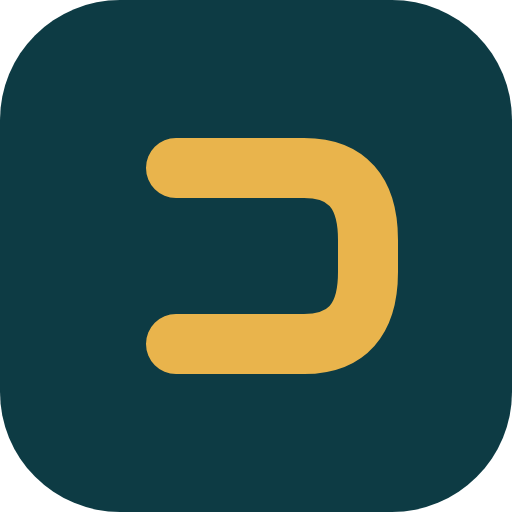
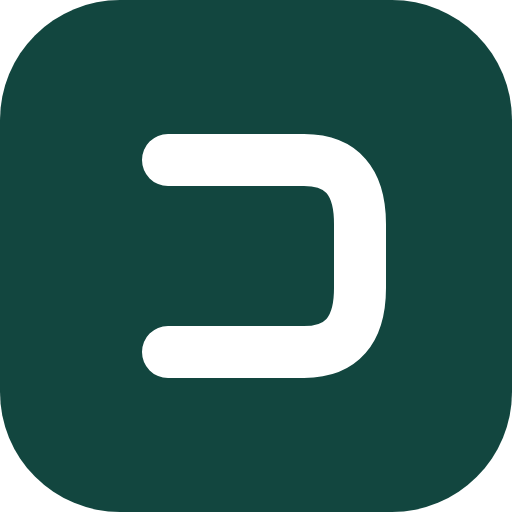
Lighten the whole look and give the mark a softer container
The light theme was cream-on-deep-teal with a dark hero slab that
dominated the page even in light mode, so the product read heavy and
dated rather than current.

Palette: near-white with a faint cool cast instead of cream, lighter
cooler rules, a brighter teal, and gold pushed down to an accent — it was
carrying headline text, which is what made everything feel weighty. The
hero is now the same near-white ground with a soft wash rather than a
dark band.

Light is now the default rather than following the OS. That needed fixing
in two places: the pre-paint script AND useTheme, which independently fell
back to prefers-color-scheme. With only one changed, the script set light
and the hook put dark straight back after mount, so the default never
actually applied.

The mark keeps the kaf — it is the distinctive part — in a soft tile,
which reads as a product mark rather than a glyph without planting a
heavy dark square in a light header. Icons regenerated from it.

Directory rails with no items no longer render their heading; nothing is
flagged featured yet, and an empty titled section looks unfinished.

Changed region(s): [[0.2812, 0.25, 0.7812, 0.75]]

diff --git a/src/index.css b/src/index.css
@@ -55,19 +55,23 @@
     --sidebar-border: 220 13% 91%;
     --sidebar-ring: 217.2 91.2% 59.8%;
 
-    --brand-canvas: 45 38% 96%;
+    /* Near-white with a faint cool cast rather than cream: the warm ground was
+       what made the light theme read heavy and dated. */
+    --brand-canvas: 190 24% 99%;
     --brand-surface: 0 0% 100%;
-    --brand-navy: 197 61% 18%;
-    --brand-navy-hover: 176 78% 23%;
-    --brand-teal: 176 78% 23%;
-    --brand-ink: 192 47% 18%;
-    --brand-body: 176 9% 36%;
-    --brand-muted: 165 8% 48%;
-    --brand-line: 146 16% 89%;
-    --brand-tint: 140 22% 91%;
-    --brand-gold: 42 86% 68%;
-    --brand-gold-bg: 46 100% 92%;
-    --brand-gold-ink: 41 64% 32%;
+    --brand-navy: 196 52% 20%;
+    --brand-navy-hover: 191 48% 26%;
+    --brand-teal: 176 72% 28%;
+    --brand-ink: 197 42% 17%;
+    --brand-body: 197 13% 40%;
+    --brand-muted: 197 10% 56%;
+    --brand-line: 195 22% 92%;
+    --brand-tint: 172 38% 96%;
+    /* Deeper than before so gold is legible on white — it is an accent now,
+       not a headline colour. */
+    --brand-gold: 38 78% 48%;
+    --brand-gold-bg: 42 82% 95%;
+    --brand-gold-ink: 34 62% 32%;
     --brand-error: 0 28% 48%;
     --brand-success: 145 64% 24%;
   }
@@ -137,7 +141,21 @@
 
 @layer components {
   .page-shell { @apply mx-auto w-full max-w-7xl px-4 sm:px-6 lg:px-8; }
-  .hero { background: radial-gradient(circle at 82% 15%, #206C6A 0%, #123C4A 46%, #0B2C38 100%); }
+  /* Light hero. The dark slab dominated the page even in light mode, which is
+     what made the whole product feel heavy — the ground is now the same near
+     white as the rest of the page, with a soft teal wash for depth. */
+  .hero {
+    background:
+      radial-gradient(ellipse 80% 70% at 78% 0%, hsl(var(--brand-tint)) 0%, transparent 62%),
+      radial-gradient(ellipse 60% 60% at 8% 100%, hsl(42 82% 96%) 0%, transparent 60%),
+      hsl(var(--brand-canvas));
+    border-bottom: 1px solid hsl(var(--brand-line));
+  }
+  .dark .hero {
+    background:
+      radial-gradient(ellipse 80% 70% at 78% 0%, hsl(190 40% 16%) 0%, transparent 62%),
+      hsl(var(--brand-canvas));
+  }
   .eyebrow { @apply text-[11px] font-bold tracking-[0.18em] text-brand-gold; }
   .eyebrow.dark { @apply text-brand-teal; }
   .title { @apply mt-2 font-heading text-2xl font-bold tracking-tight text-brand-ink; }

diff --git a/src/components/Brand.jsx b/src/components/Brand.jsx
@@ -2,35 +2,33 @@ import React from 'react';
 import { Link } from 'react-router-dom';
 
 /**
- * The mark is a kaf — the initial of כלל — holding a single point:
- * klal u'prat, the whole and the individual within it. The stroke takes
- * currentColor so it inherits the header's colour in both themes; only the
- * inner point is fixed, because it is the one warm accent.
+ * The mark is a kaf — the initial of כלל — set in a soft tile.
+ *
+ * The letterform is the distinctive part and is kept; the tile is what makes it
+ * read as a product mark rather than a glyph, and stays light rather than
+ * planting a heavy dark square in the header.
  */
-export function Mark({ className = 'h-9 w-9', withPoint = true }) {
+export function Mark({ className = 'h-9 w-9' }) {
   return (
-    <svg viewBox="0 0 64 64" fill="none" className={className} aria-hidden="true">
+    <svg viewBox="0 0 64 64" className={className} aria-hidden="true">
+      <rect width="64" height="64" rx="17" className="fill-brand-tint" />
       <path
-        d="M17 17 H39 Q49 17 49 28 V36 Q49 47 39 47 H17"
+        d="M21 20 H38 Q45 20 45 28 V36 Q45 44 38 44 H21"
+        fill="none"
         stroke="currentColor"
-        strokeWidth="9.5"
+        strokeWidth="6"
         strokeLinecap="round"
         strokeLinejoin="round"
       />
-      {/* Dropped below about 24px, where it closes up and muddies the counter. */}
-      {withPoint && <circle cx="30" cy="32" r="4.6" fill="hsl(var(--brand-gold))" />}
     </svg>
   );
 }
 
 export default function Brand() {
   return (
-    /* brand-ink, not brand-navy: navy is a dark teal in the dark theme and the
-       mark all but disappeared against the header. ink is the foreground token
-       and flips with the theme, so contrast holds in both. */
-    <Link to="/" className="flex items-center gap-2.5 text-brand-ink" aria-label="Klal — home">
-      <Mark className="h-8 w-8" />
-      <span className="font-display text-2xl font-bold leading-none tracking-tight">Klal</span>
+    <Link to="/" className="flex items-center gap-2.5 text-brand-teal" aria-label="Klal — home">
+      <Mark className="h-9 w-9" />
+      <span className="font-display text-2xl font-bold leading-none tracking-tight text-brand-ink">Klal</span>
     </Link>
   );
 }

diff --git a/src/pages/Home.jsx b/src/pages/Home.jsx
@@ -7,12 +7,12 @@ export default function Home(){
   return <>
     <section className="hero"><div className="page-shell py-16 md:py-28">
       <span className="eyebrow">BUILT BY THE COMMUNITY, FOR THE COMMUNITY</span>
-      <h1 className="mt-5 max-w-3xl font-display text-4xl font-bold tracking-tight text-white md:text-6xl">Helping each other grow.<br/><span className="text-[#F3C66A]">Strengthening our communities.</span></h1>
-      <p className="mt-5 max-w-2xl text-lg text-white/85">Klal is a single home for the frum Jewish community to find trusted businesses, services, and resources — and to put your own business in front of the klal.</p>
+      <h1 className="mt-5 max-w-3xl font-display text-4xl font-bold tracking-tight text-brand-ink md:text-6xl">Helping each other grow.<br/><span className="text-brand-teal">Strengthening our communities.</span></h1>
+      <p className="mt-5 max-w-2xl text-lg text-brand-body">Klal is a single home for the frum Jewish community to find trusted businesses, services, and resources — and to put your own business in front of the klal.</p>
       <div className="mt-8"><SearchPanel/></div>
       <div className="mt-5 flex flex-wrap gap-3">
-        <Link to="/directory" className="inline-flex items-center gap-2 rounded-xl bg-[#F3C66A] px-5 py-3 font-bold text-brand-navy"><Search size={17}/>Browse the directory</Link>
-        <Link to="/feed" className="inline-flex items-center gap-2 rounded-xl border border-white/40 px-5 py-3 font-semibold text-white"><MessageSquare size={17}/>Open the community feed</Link>
+        <Link to="/directory" className="inline-flex items-center gap-2 rounded-xl bg-brand-navy px-5 py-3 font-semibold text-white shadow-sm transition hover:bg-brand-navy-hover"><Search size={17}/>Browse the directory</Link>
+        <Link to="/feed" className="inline-flex items-center gap-2 rounded-xl border border-brand-line bg-brand-surface px-5 py-3 font-semibold text-brand-ink transition hover:bg-brand-tint"><MessageSquare size={17}/>Open the community feed</Link>
       </div>
     </div></section>
 

diff --git a/index.html b/index.html
@@ -16,15 +16,17 @@
       (function () {
         try {
           var stored = localStorage.getItem('kc-theme');
-          var dark = stored === 'dark' ||
-            (!stored && window.matchMedia('(prefers-color-scheme: dark)').matches);
+          // Light unless the visitor has explicitly chosen dark. Following the
+          // OS meant most first impressions were the dark theme, which is not
+          // the face this product should lead with.
+          var dark = stored === 'dark';
           document.documentElement.classList.toggle('dark', dark);
           // Keeps native controls, scrollbars and form widgets in the same theme.
           document.documentElement.style.colorScheme = dark ? 'dark' : 'light';
         } catch (e) {}
       })();
     </script>
-    <meta name="theme-color" content="#0D3B44" />
+    <meta name="theme-color" content="#FBFDFD" />
     <!-- iOS does not read the web manifest for these; it needs its own tags. -->
     <meta name="apple-mobile-web-app-capable" content="yes" />
     <meta name="apple-mobile-web-app-status-bar-style" content="black-translucent" />

diff --git a/src/hooks/useTheme.js b/src/hooks/useTheme.js
@@ -5,7 +5,10 @@ export function useTheme(){
     if(typeof window==='undefined') return 'light';
     const stored=localStorage.getItem('kc-theme');
     if(stored==='dark'||stored==='light') return stored;
-    return window.matchMedia('(prefers-color-scheme: dark)').matches ? 'dark' : 'light';
+    // Light unless explicitly chosen — this MUST match the pre-paint script in
+    // index.html. When it did not, the script set light and this hook put dark
+    // straight back on after mount, so the default never actually applied.
+    return 'light';
   });
   useEffect(()=>{
     const root=document.documentElement;

diff --git a/src/pages/Directory.jsx b/src/pages/Directory.jsx
@@ -55,5 +55,8 @@ export default function Directory(){
 }
 
 function ProviderSection({ title, items }){
+  // A heading with nothing under it reads as broken. Nothing is flagged
+  // featured yet, so that rail simply does not appear until something is.
+  if(!items || items.length===0) return null;
   return <section><div className="section-head"><h2 className="title">{title}</h2><Link to="/browse" className="text-sm font-semibold text-brand-teal">See more</Link></div><div className="grid gap-4 md:grid-cols-3">{items.map(p=><ResourceCard key={p.id} provider={p}/>)}</div></section>;
 }
